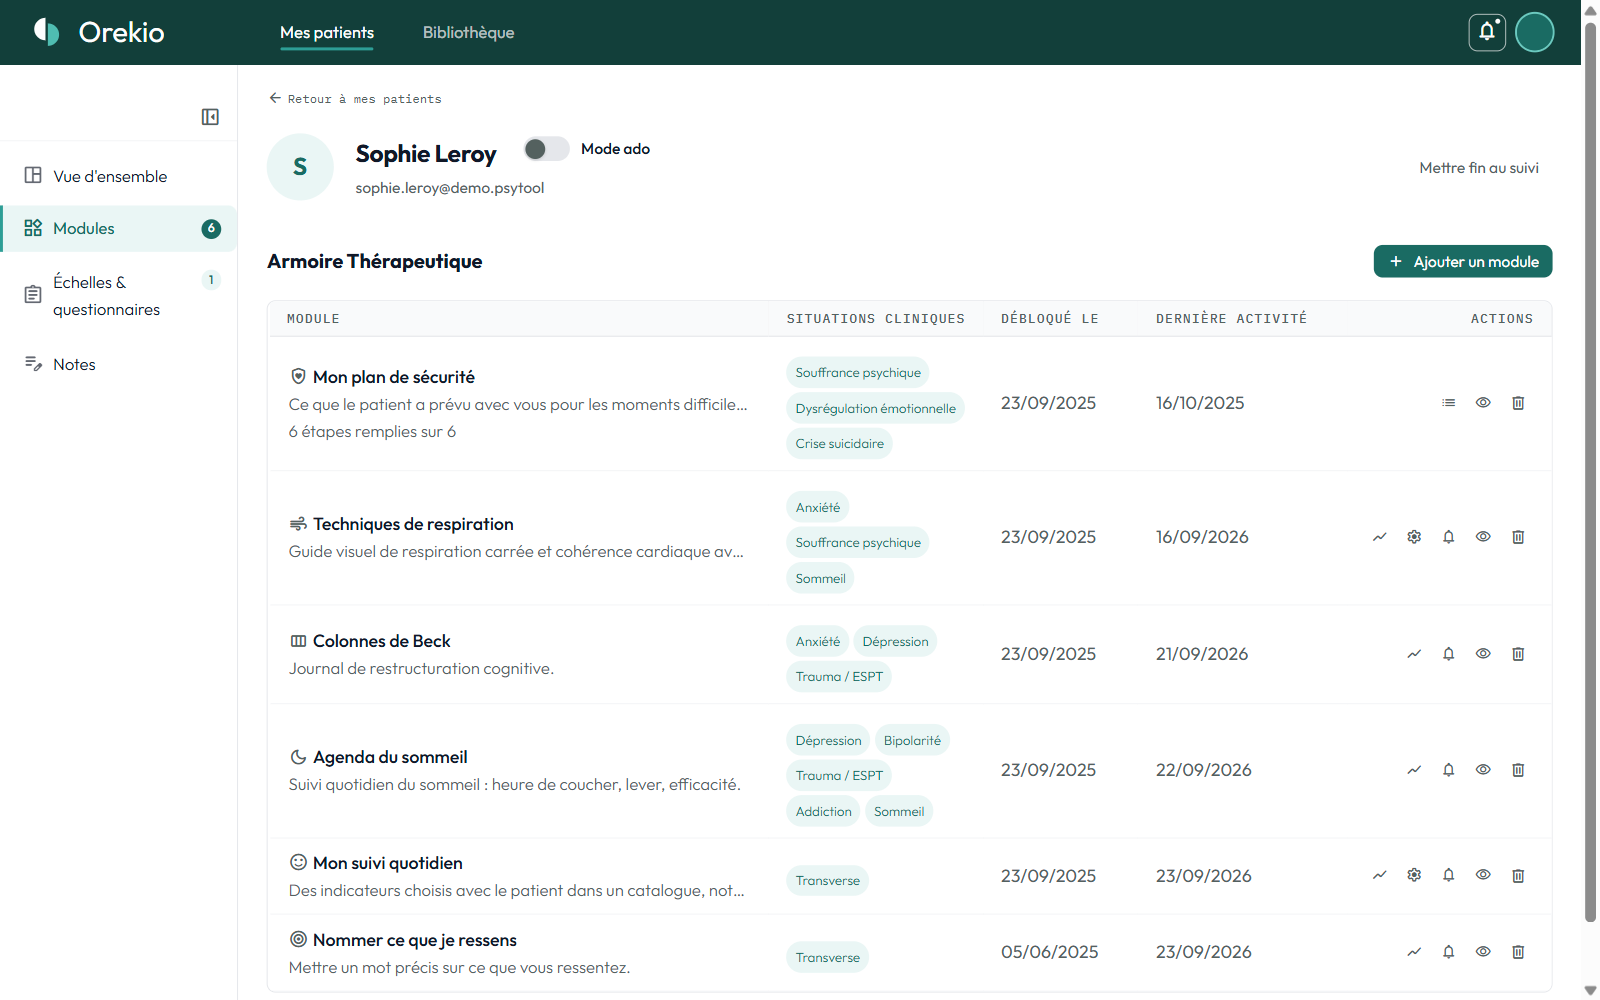
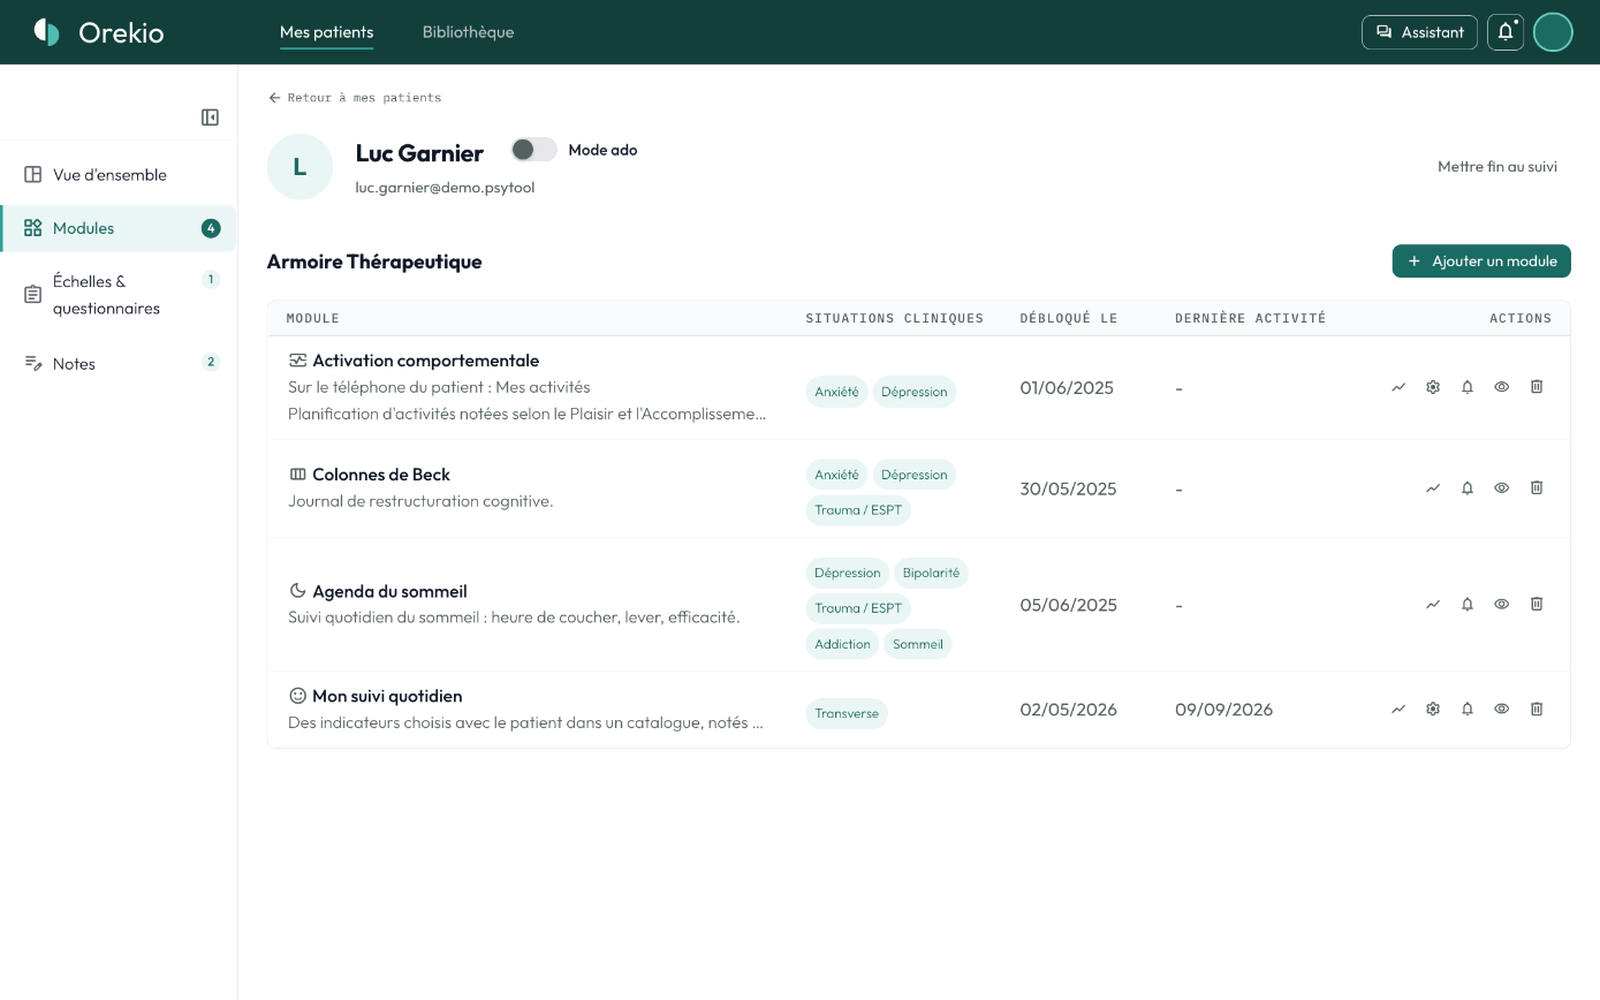
content(captures): l'Armoire avec le bouton « Assistant » de l'en-tête
Fiche de démonstration de Luc Garnier, 1600 x 1000, sur le site praticien en ligne. Masqués le
temps de la prise : les entrées d'administration de l'en-tête et la photo du compte.

diff --git a/src/i18n/dictionaries/fr.ts b/src/i18n/dictionaries/fr.ts
@@ -280,7 +280,7 @@ export const fr = {
           eyebrow: "Choisir les outils",
           title: "Vous ouvrez l'accès aux modules au fil des consultations.",
           text: "Chaque outil s'ouvre une fois travaillé ensemble, et se retire à tout moment.",
-          alt: "La liste des modules ouverts pour une patiente fictive.",
+          alt: "La liste des modules ouverts pour un patient fictif.",
         },
         {
           src: "praticien-sommeil-donnees.png",
